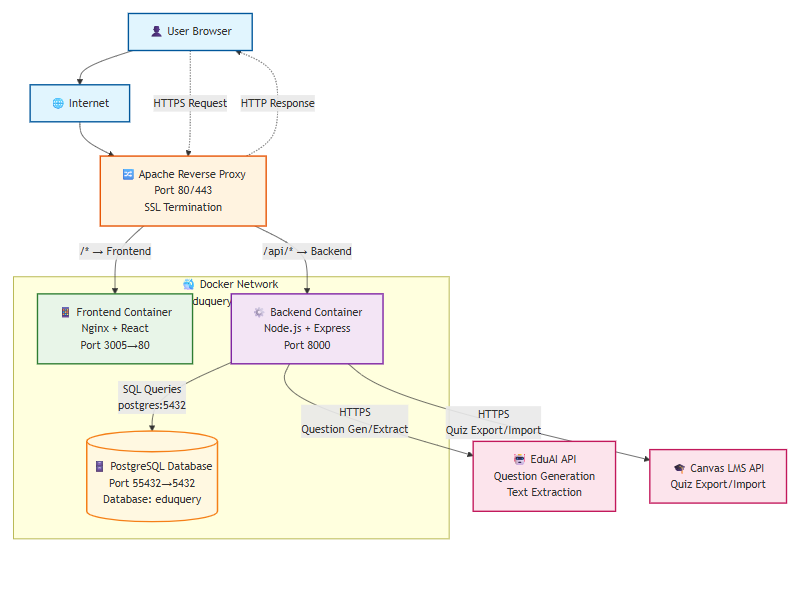
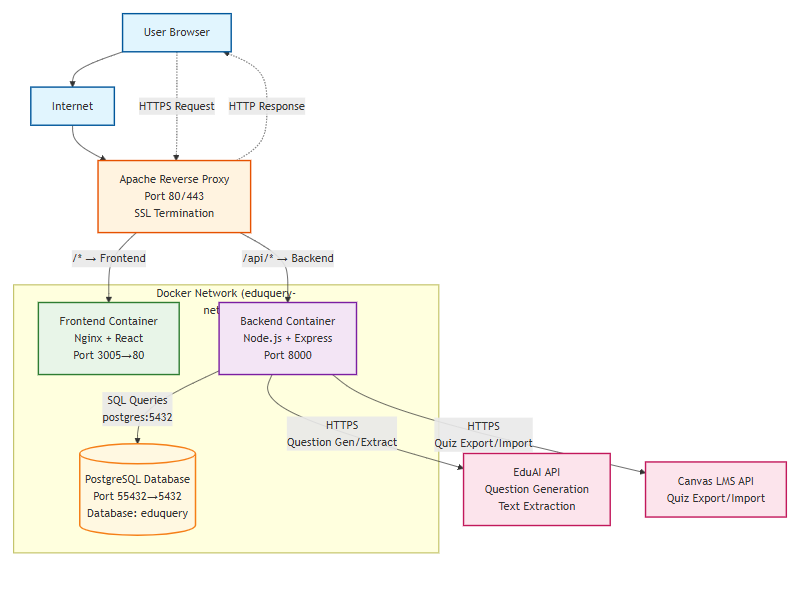
.

Changed region(s): [[0.0, 0.0, 1.0, 0.93]]

diff --git a/docs/diagrams/architecture.md b/docs/diagrams/architecture.md
@@ -1,27 +1,27 @@
 ```mermaid
 graph TB
     %% External Layer
-    User[👤 User Browser]
-    Internet[🌐 Internet]
+    User[User Browser]
+    Internet[Internet]
     
     %% Apache Reverse Proxy
-    Apache[🔀 Apache Reverse Proxy<br/>Port 80/443<br/>SSL Termination]
+    Apache[Apache Reverse Proxy<br/>Port 80/443<br/>SSL Termination]
     
     %% Docker Network
-    subgraph Docker["🐳 Docker Network (eduquery-network)"]
+    subgraph Docker["Docker Network (eduquery-network)"]
         %% Frontend Container
-        Frontend[📱 Frontend Container<br/>Nginx + React<br/>Port 3005→80]
+        Frontend[Frontend Container<br/>Nginx + React<br/>Port 3005→80]
         
         %% Backend Container
-        Backend[⚙️ Backend Container<br/>Node.js + Express<br/>Port 8000]
+        Backend[Backend Container<br/>Node.js + Express<br/>Port 8000]
         
         %% Database Container
-        Database[(🗄️ PostgreSQL Database<br/>Port 55432→5432<br/>Database: eduquery)]
+        Database[(PostgreSQL Database<br/>Port 55432→5432<br/>Database: eduquery)]
     end
     
     %% External Services
-    EduAI[🤖 EduAI API<br/>Question Generation<br/>Text Extraction]
-    Canvas[🎓 Canvas LMS API<br/>Quiz Export/Import]
+    EduAI[EduAI API<br/>Question Generation<br/>Text Extraction]
+    Canvas[Canvas LMS API<br/>Quiz Export/Import]
     
     %% Request Flow
     User --> Internet